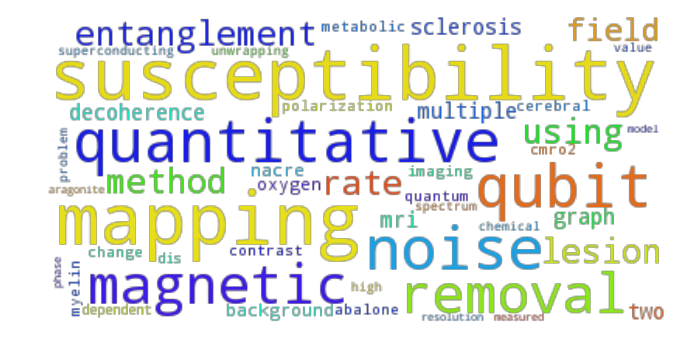
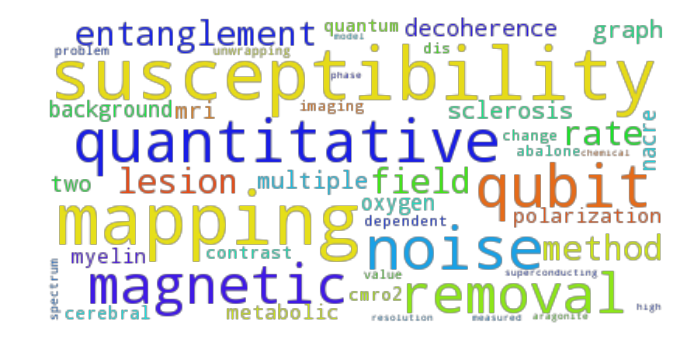
update word cloud

diff --git a/keywords/makeWordCloud.py b/keywords/makeWordCloud.py
@@ -22,20 +22,24 @@ def make_wordcloud(filename, titles):
     plt.axis("off")
     plt.savefig(filename, bbox_inches='tight')
 
+
 def tokenize_text(stopwords, text):
     ''' split text, stem word, remove stopwords '''
     lemma = WordNetLemmatizer()
 
     tokenizer = RegexpTokenizer(r'\w+')
     return [lemma.lemmatize(w.lower()) for w in tokenizer.tokenize(text)
-                if w.lower() not in stopwords]
+            if w.lower() not in stopwords]
+
 
 if __name__ == '__main__':
 
     stopwords = set(stopwords.words('english'))
+    stopwords.add('using')
+
     new_tokenizer = partial(tokenize_text, stopwords)
     fin, fout = 'paper-titles.txt', 'wordcloud.png'
 
     with open(fin) as f:
-        titles = [new_tokenizer(line) for line  in f]
+        titles = [new_tokenizer(line) for line in f]
         make_wordcloud(fout, titles)
